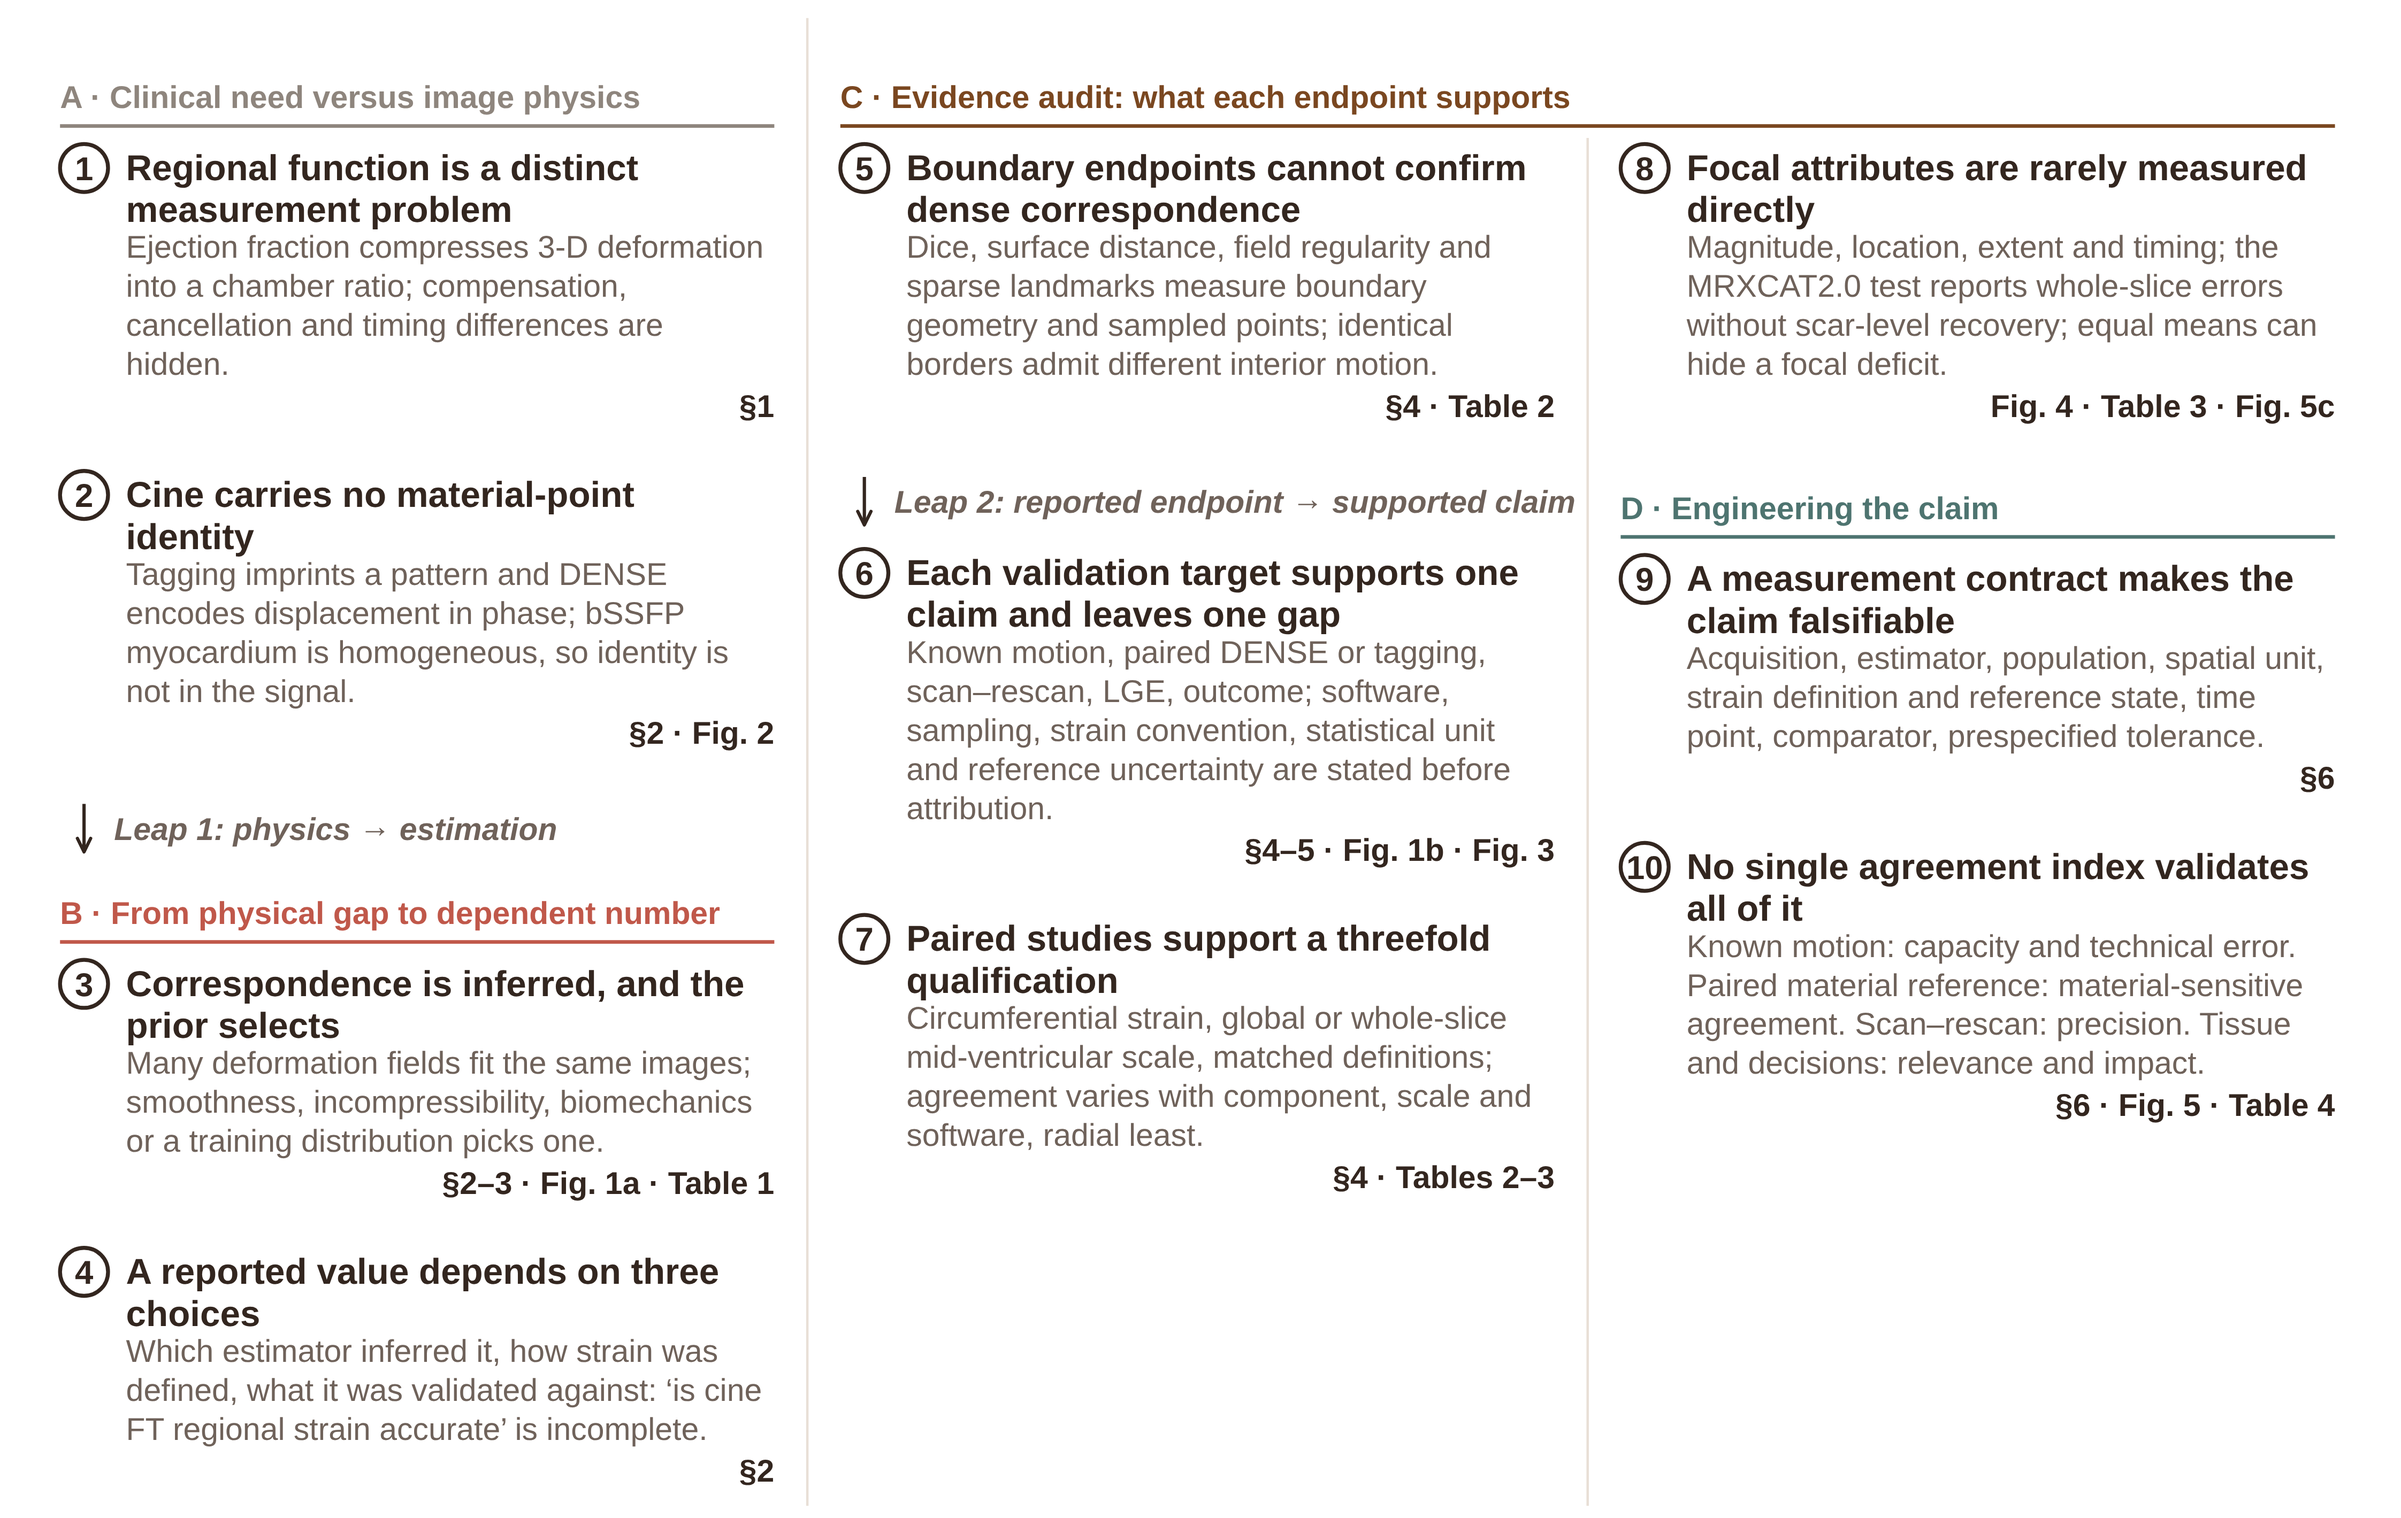
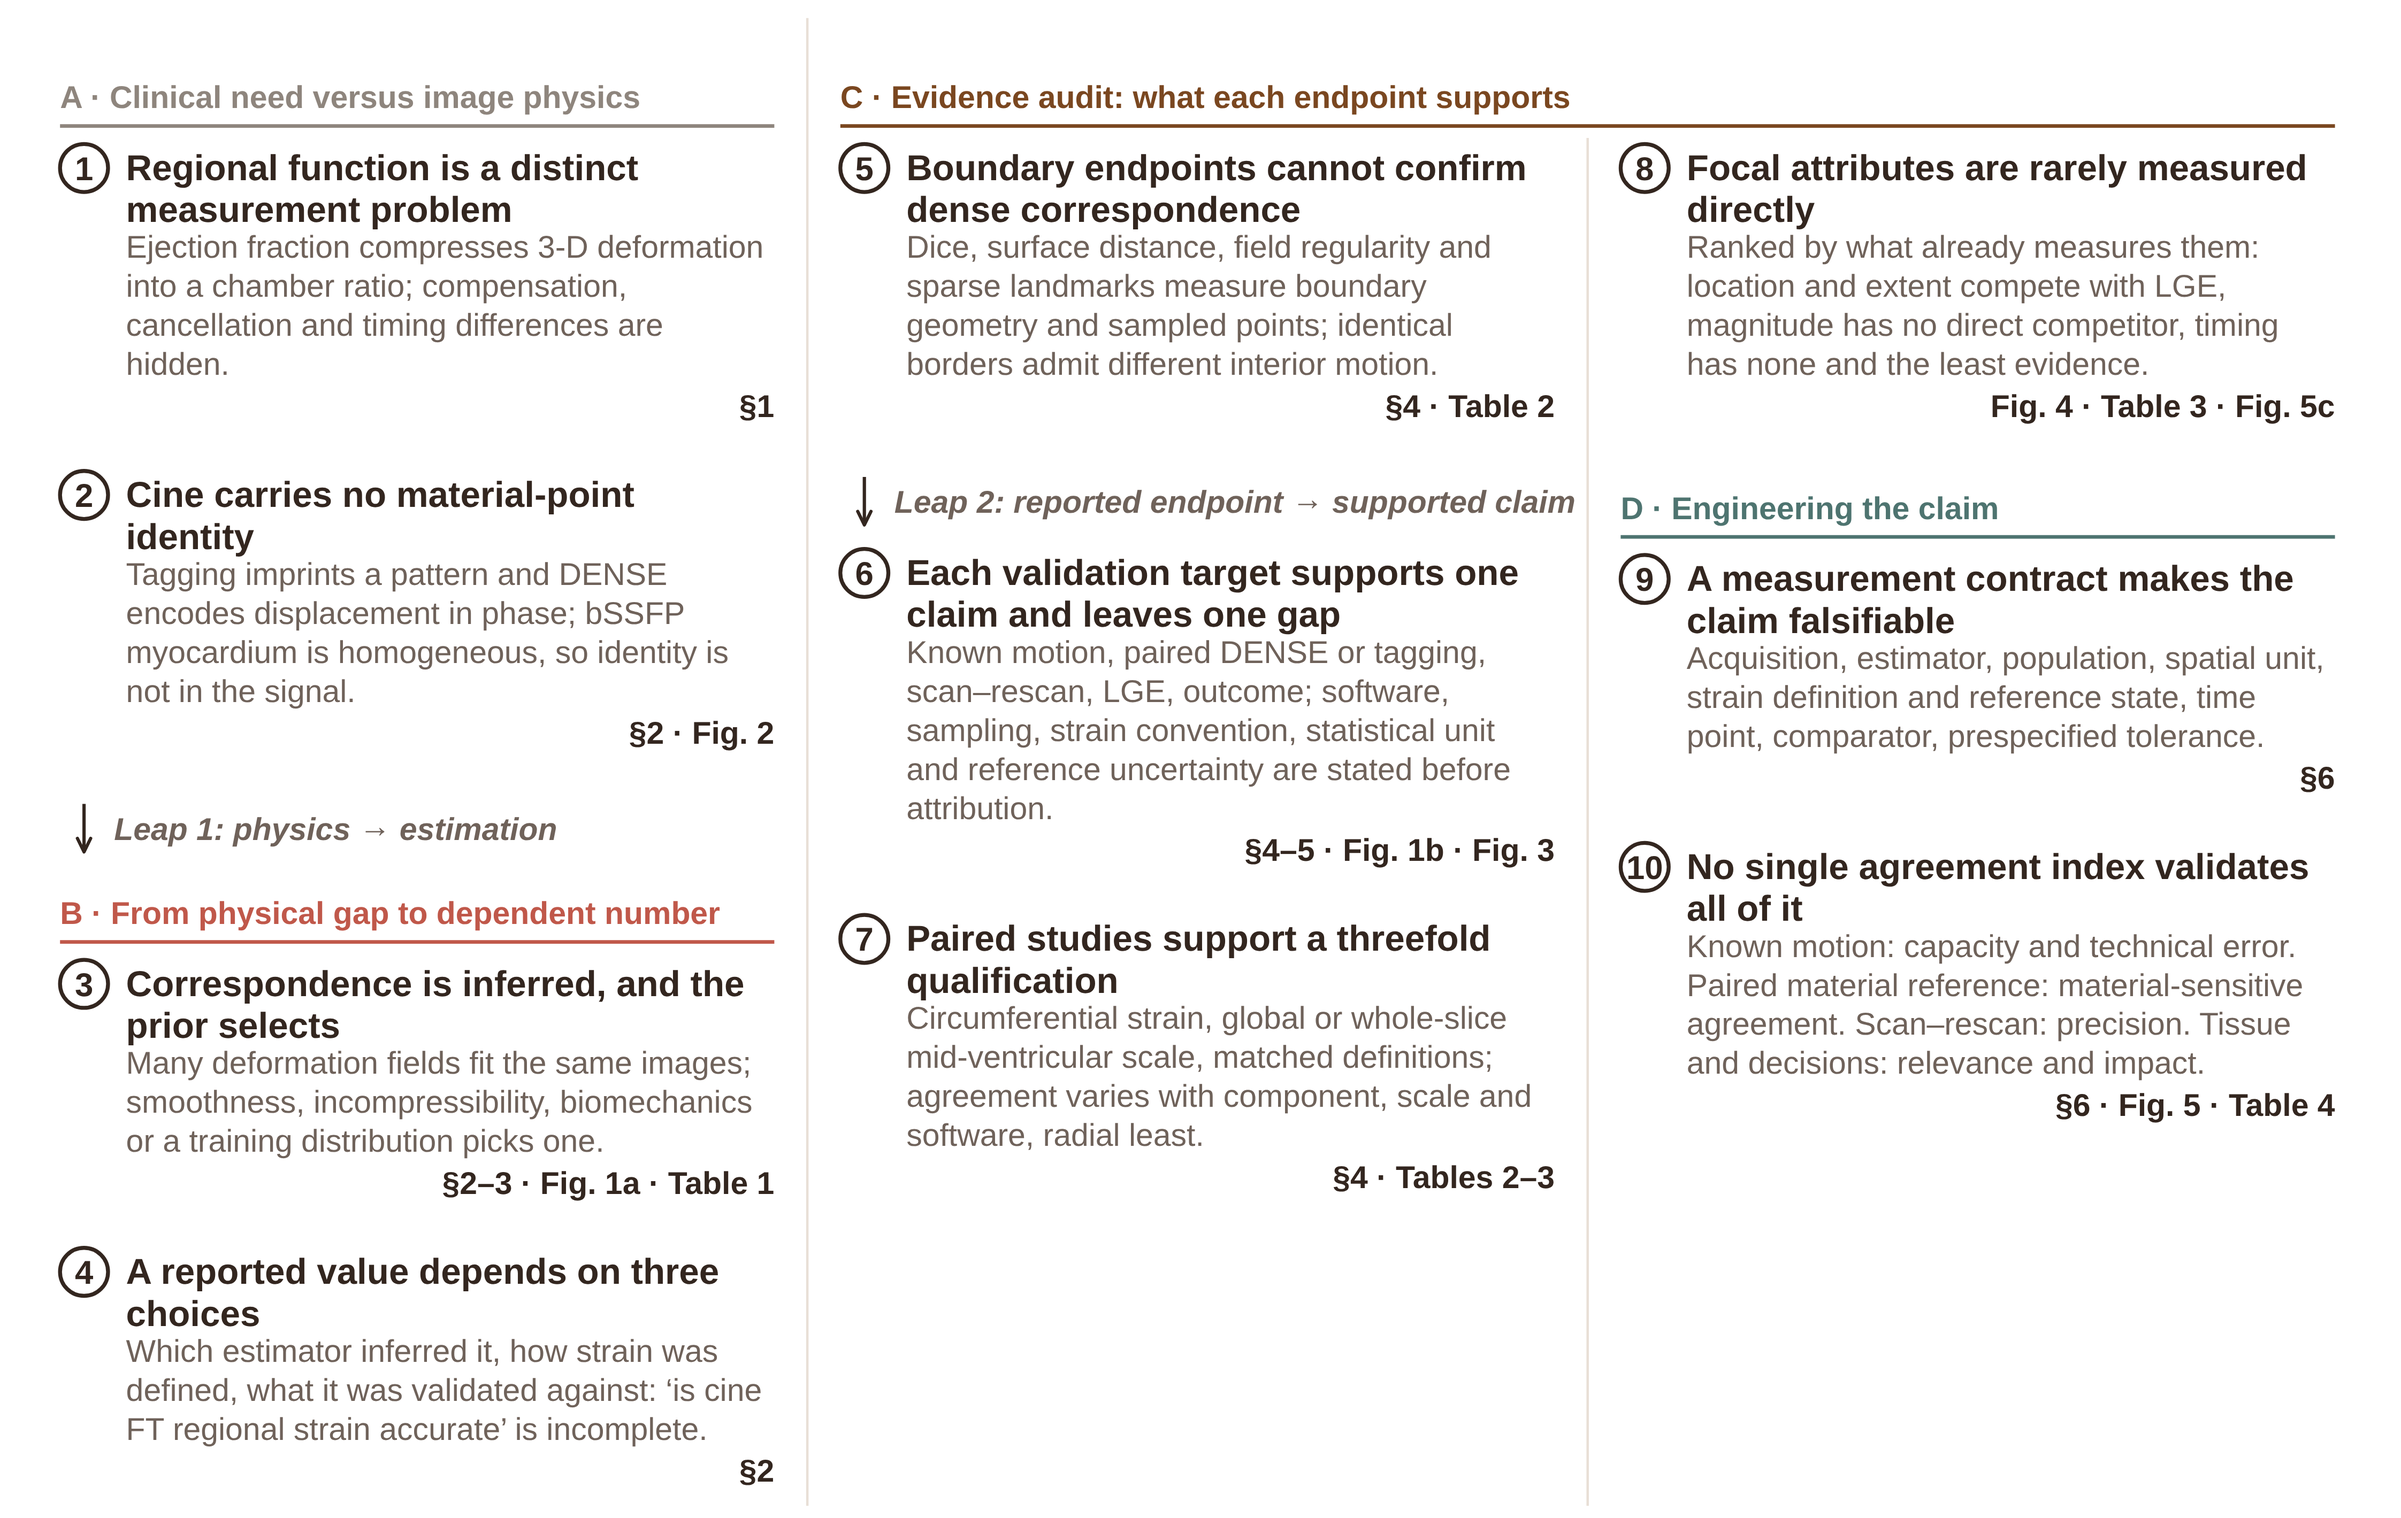
Box 1 step 8: rank the four attributes by their clinical gap
Claude-Session: https://claude.ai/code/session_017XQwJ1Acyq4rjNb1y3aRdn

Changed region(s): [[0.6863, 0.155, 0.967, 0.248]]

diff --git a/figures/cine-cmr-review-v10/src/box1_argument_map.py b/figures/cine-cmr-review-v10/src/box1_argument_map.py
@@ -34,7 +34,7 @@ S = {
     7: ("Paired studies support a threefold qualification",
         "Circumferential strain, global or whole-slice mid-ventricular scale, matched definitions; agreement varies with component, scale and software, radial least.", "§4 · Tables 2–3"),
     8: ("Focal attributes are rarely measured directly",
-        "Magnitude, location, extent and timing; the MRXCAT2.0 test reports whole-slice errors without scar-level recovery; equal means can hide a focal deficit.", "Fig. 4 · Table 3 · Fig. 5c"),
+        "Ranked by what already measures them: location and extent compete with LGE, magnitude has no direct competitor, timing has none and the least evidence.", "Fig. 4 · Table 3 · Fig. 5c"),
     9: ("A measurement contract makes the claim falsifiable",
         "Acquisition, estimator, population, spatial unit, strain definition and reference state, time point, comparator, prespecified tolerance.", "§6"),
     10: ("No single agreement index validates all of it",
